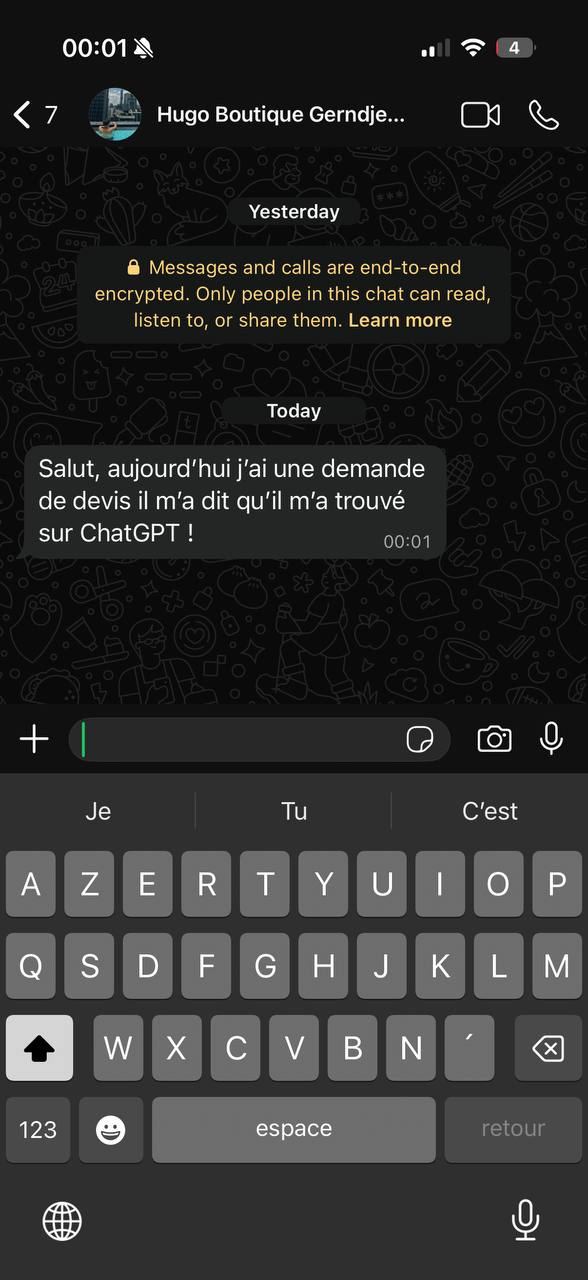
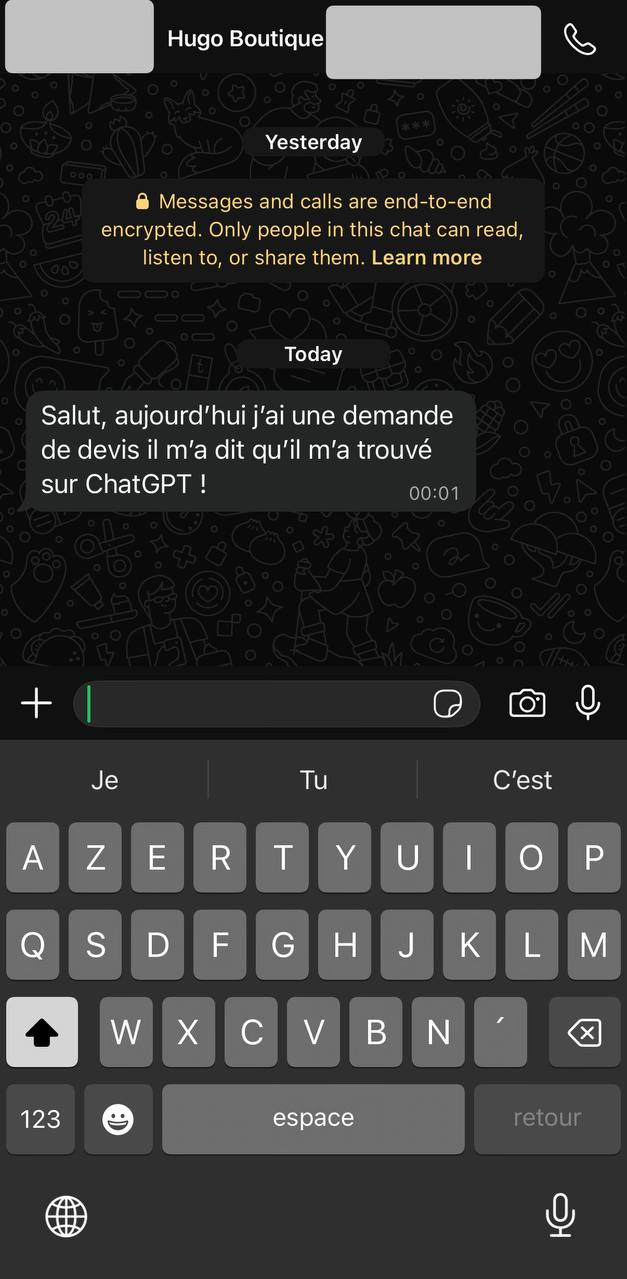
Add new WhatsApp testimonial screenshots, 30% smaller display

diff --git a/content.js b/content.js
@@ -155,9 +155,9 @@ const CONTENT = {
         title: 'Ils nous font <span class="text-blue-500">confiance</span>',
         subtitle: "Des résultats réels, des clients qui parlent pour nous.",
         slots: [
-            { image: "", alt: "Avis client hôtel" },
-            { image: "", alt: "Avis client restaurant" },
-            { image: "", alt: "Avis client boutique" }
+            { image: "/whatsapp-hotel.jpg", alt: "Avis client hôtel" },
+            { image: "/whatsapp-restaurant.jpg", alt: "Avis client restaurant" },
+            { image: "/whatsapp-boutique.jpg", alt: "Avis client boutique" }
         ]
     },
 

diff --git a/style.css b/style.css
@@ -2224,7 +2224,7 @@ input, select, textarea {
 
 .testimonial-item {
     text-align: center;
-    max-width: 18rem;
+    max-width: 12.5rem;
 }
 
 .testimonial-slot {
